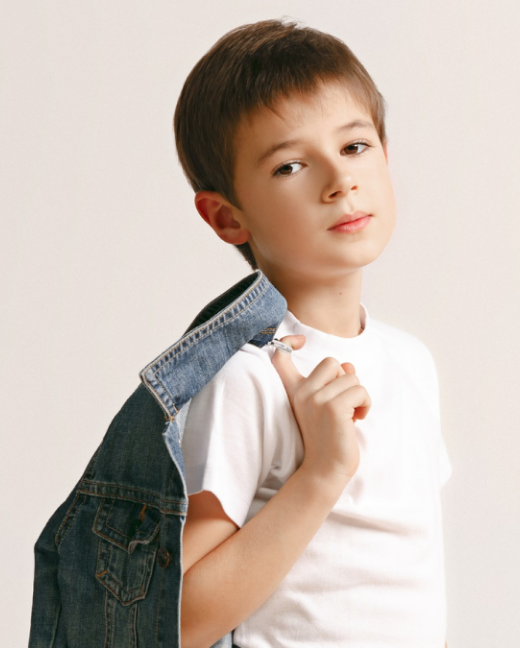
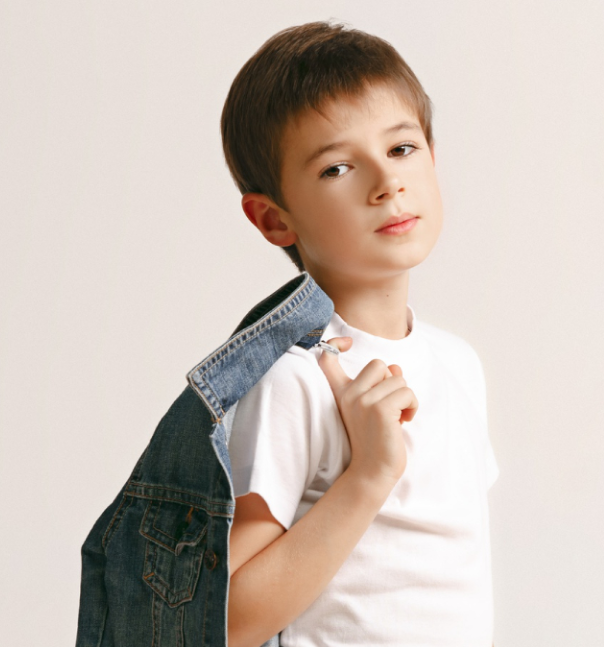
feat: complete main page layout

diff --git a/src/pages/index.tsx b/src/pages/index.tsx
@@ -1,10 +1,9 @@
 import { type NextPage } from "next";
 import Head from "next/head";
-// import Link from "next/link";
-// import { Container } from "postcss";
 import Header from "~/components/Header";
 import Image from "next/image";
-
+import Footer from "~/components/Footer";
+import Collection from "~/components/Collection";
 const Home: NextPage = () => {
   return (
     <>
@@ -18,46 +17,39 @@ const Home: NextPage = () => {
           <Header />
         </div>
         <div className="relative mx-4 mt-24 flex flex-col justify-center gap-6">
-          <div className="flex h-[35rem] w-full overflow-hidden rounded-xl drop-shadow-lg">
-            <div className="hero min-h-screen bg-base-200">
-              <div className="hero-content flex-col lg:flex-row">
-                {/* <img
-                  src="/Banner1.png"
-                  className="max-w-sm rounded-lg shadow-2xl"
-                /> */}
-                <div className=" w-[24rem] h-full rounded-lg shadow-2xl"> <Image
-                alt="banner"
-                src="/Banner1.png"
-                fill
-                className="z-0 object-contain object-right-top"
-              /></div>
-                <div>
-                  <h1 className="text-5xl font-bold">Box Office News!</h1>
+          <div className="flex w-full overflow-hidden rounded-xl shadow-2xl">
+            <div className="hero bg-base-100">
+              <div className="hero-content w-full max-w-none flex-col-reverse px-0 py-0 md:flex-row">
+                <div className="relative left-0 h-[35rem] w-full overflow-hidden">
+                  <Image
+                    alt="banner"
+                    src="/Banner1.png"
+                    fill
+                    className="z-10 object-cover object-right-top"
+                  />
+                </div>
+                <div className="px-10 py-10">
+                  <h1 className="w-1/2 whitespace-nowrap text-5xl font-bold">
+                    Happier Kids
+                  </h1>
                   <p className="py-6">
                     Provident cupiditate voluptatem et in. Quaerat fugiat ut
                     assumenda excepturi exercitationem quasi. In deleniti eaque
                     aut repudiandae et a id nisi.
                   </p>
-                  <button className="btn-primary btn">Get Started</button>
+                  <button className="btn-primary btn">Explore</button>
                 </div>
               </div>
             </div>
-            {/* <div className="z-0">
-              <Image
-                alt="banner"
-                src="/Banner1.png"
-                fill
-                className="z-0 object-cover object-right-top"
-              />
-            </div>
-            <div className="absolute right-0 top-1/2 z-10 text-black align-middle">
-              <div className="flex flex-col justify-center mr-28 text-5xl font-bold text-primary-content align-middle">HappyKids  </div>
-            </div> */}
           </div>
-          <div className="flex w-full overflow-hidden rounded-xl bg-base-100 drop-shadow-lg">
-            <h1 className="h1">Store Collections</h1>
+          <div className="flex w-full flex-col  items-center justify-center rounded-xl bg-base-100 drop-shadow-lg">
+            <h1 className="my-10 text-4xl font-bold ">New Arrivals</h1>
+            <div className="overflow-scroll w-full">
+              <Collection />
+            </div>
           </div>
         </div>
+        <Footer />
       </main>
     </>
   );

diff --git a/src/components/Collection.tsx b/src/components/Collection.tsx
@@ -1,0 +1,46 @@
+import React, { useEffect, useState } from "react";
+import type { INewArrivalScema, INewArrivalScemaList } from "./validation/newArrival";
+const Collection = () => {
+  const [response, setResponse] = useState<Array<INewArrivalScemaList>>([]);
+  useEffect(() => {
+    fetch("https://skillkamp-api.com/v1/api/products/new_arrivals")
+      .then((response) => response.json())
+      .then((data: INewArrivalScema) => {
+        setResponse(data.detail.data.catalog.category.productsWithMetaData.list);
+        console.log(response)
+      })
+      .catch((err) => {
+        console.log(err);
+      });
+  }, []);
+  return (
+    <div className="flex flex-row max-w-5 gap-x-4 pb-5 mx-5">
+      {response.map(
+        (item: INewArrivalScemaList) => {
+          return (
+            <div className="card w-96 bg-base-100 shadow-xl shrink-0" key={item.sku}>
+              <figure>
+                <img
+                  src={item.media[0]?.url}
+                  alt={item.media[0]?.altText || "image"}
+                />
+              </figure>
+              <div className="card-body">
+                <h2 className="card-title">
+                    {item.name}
+                  {item.ribbon && <div className="badge badge-accent">{item.ribbon}</div>}
+                </h2>
+                <p>Lorem ipsum dolor sit amet, consectetur adipiscing elit.</p>
+                <div className="card-actions justify-end">
+                    <button className="btn btn-secondary-focus btn-outline">Details</button>
+                    <button className={`btn btn-primary ${(item.isInStock === false) ? 'btn-disabled' : ''}`}>{`Buy Now ${item.formattedDiscountedPrice}`}</button>
+                </div>
+              </div>
+            </div>
+          );
+        }
+      )}
+    </div>
+  );
+};
+export default Collection;

diff --git a/src/components/Footer.tsx b/src/components/Footer.tsx
@@ -1,0 +1,39 @@
+const Footer = () => {
+    return (
+        <footer className="footer p-10 bg-base-200 text-base-content">
+  <div>
+    <span className="footer-title">Services</span> 
+    <a className="link link-hover">Branding</a> 
+    <a className="link link-hover">Design</a> 
+    <a className="link link-hover">Marketing</a> 
+    <a className="link link-hover">Advertisement</a>
+  </div> 
+  <div>
+    <span className="footer-title">Company</span> 
+    <a className="link link-hover">About us</a> 
+    <a className="link link-hover">Contact</a> 
+    <a className="link link-hover">Jobs</a> 
+    <a className="link link-hover">Press kit</a>
+  </div> 
+  <div>
+    <span className="footer-title">Legal</span> 
+    <a className="link link-hover">Terms of use</a> 
+    <a className="link link-hover">Privacy policy</a> 
+    <a className="link link-hover">Cookie policy</a>
+  </div> 
+  <div>
+    <span className="footer-title">Newsletter</span> 
+    <div className="form-control w-80">
+      <label className="label">
+        <span className="label-text">Enter your email address</span>
+      </label> 
+      <div className="relative">
+        <input type="text" placeholder="username@site.com" className="input input-bordered w-full pr-16" /> 
+        <button className="btn btn-primary absolute top-0 right-0 rounded-l-none">Subscribe</button>
+      </div>
+    </div>
+  </div>
+</footer>
+    )
+}
+export default Footer

diff --git a/src/components/validation/newArrival.ts b/src/components/validation/newArrival.ts
@@ -1,0 +1,52 @@
+import * as z from "zod";
+const newArrivalScemaList = z.object({
+  id: z.string(),
+  options: z.array(
+    z.object({
+      id: z.string(),
+      key: z.string(),
+    })
+  ),
+  ribbon: z.string(),
+  price: z.number(),
+  discountedPrice: z.number(),
+  sku: z.string(),
+  isInStock: z.boolean(),
+  urlPart: z.string(),
+  formattedDiscountedPrice: z.string(),
+  formattedPrice: z.string(),
+  name: z.string(),
+  media: z.array(
+    z.object({
+      url: z.string(),
+      index: z.number(),
+      mediaType: z.string(),
+      altText : z.string().or(z.null()),
+      title: z.string(),
+    })
+  ),
+  inventory : z.object({
+      status : z.string(),
+      quantity : z.number()
+  })
+})
+const newArrivalScema = z.object({
+  detail: z.object({
+    data: z.object({
+      catalog: z.object({
+        category: z.object({
+          numOfProducts: z.number(),
+          productsWithMetaData: z.object({
+            totalcount: z.number(),
+            list: z.array(
+              newArrivalScemaList
+            ),
+          }),
+        }),
+      }),
+    }),
+  }),
+});
+// make a proper schema in your docs pls
+export type INewArrivalScema = z.infer<typeof newArrivalScema>;
+export type INewArrivalScemaList= z.infer<typeof newArrivalScemaList>;
